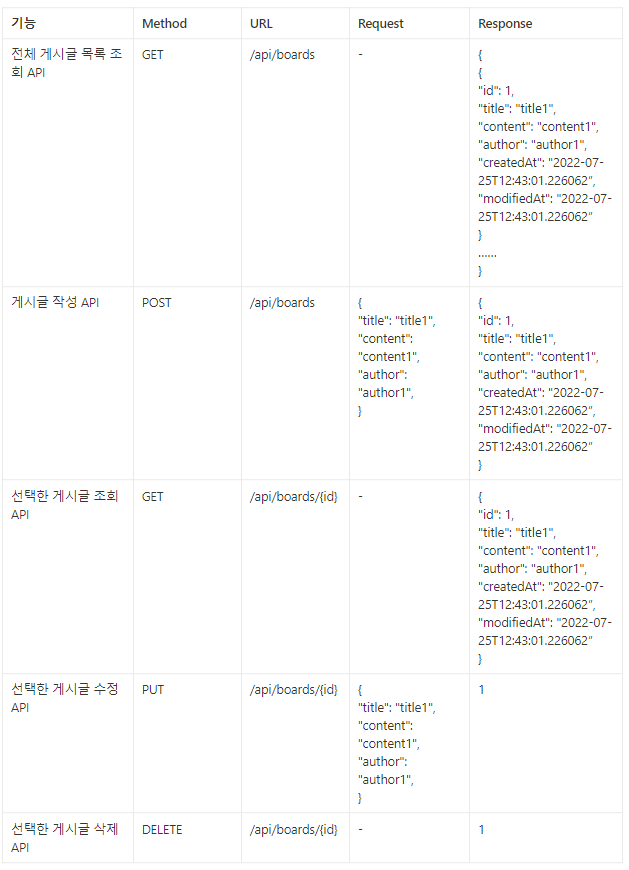
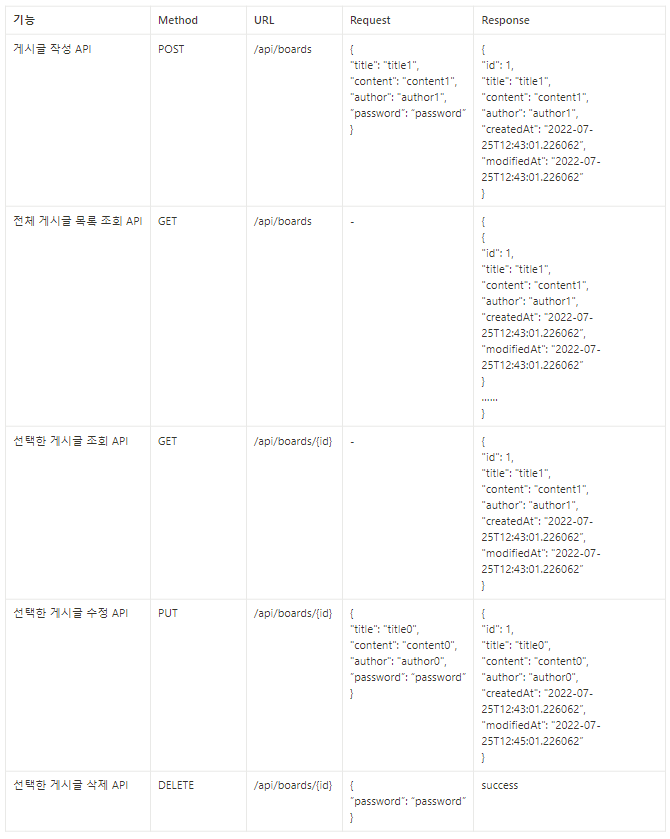
fix: README.md 수정, api명세서 수정

diff --git a/README.md b/README.md
@@ -3,4 +3,4 @@
 ![UsecaseDiagram](src/main/resources/static/images/Usecase_Diagram.drawio.png)
 
 ![UsecaseDiagram](src/main/resources/static/images/api_table.png)
-application.properties에서 비밀번호를 수정하고 사용 바람
+</br>application.properties에서 비밀번호를 수정하고 사용 바람
